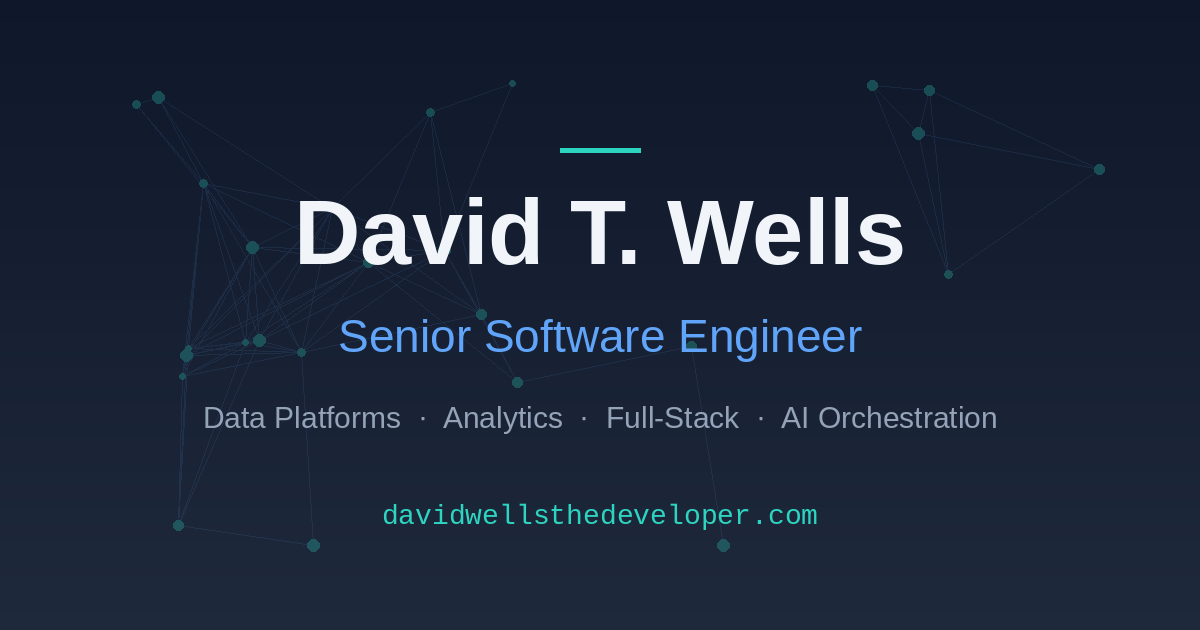
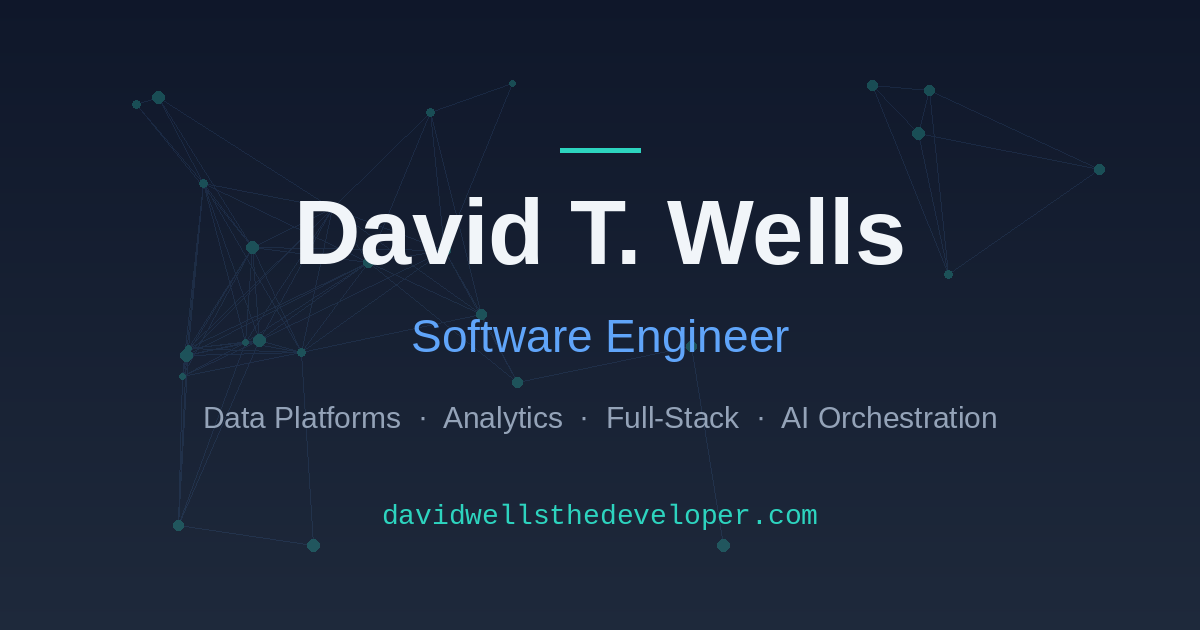
feat: align site branding with master resume (Software Engineer)
- Titles, meta descriptions, OG tags, and JSON-LD jobTitle now say
  'Software Engineer' (was 'Senior Software Engineer')
- Hero fallback copy and og-image.png regenerated to match

Changed region(s): [[0.2775, 0.5127, 0.74, 0.573]]

diff --git a/david-wells-resume/pages/index.vue b/david-wells-resume/pages/index.vue
@@ -32,16 +32,16 @@ const siteUrl = (
   runtimeConfig.public.appUrl || 'https://davidwellsthedeveloper.com'
 ).replace(/\/$/, '')
 
-const pageTitle = 'David T. Wells — Senior Software Engineer'
+const pageTitle = 'David T. Wells — Software Engineer'
 const pageDescription =
-  'Senior software engineer with 9 years of experience building and scaling data platforms, analytics, and full-stack systems. View the resume, experience, and freelance web development work of David T. Wells.'
+  'Software Engineer with 9 years of experience building and scaling data platforms, analytics, and full-stack systems. View the resume, experience, and freelance web development work of David T. Wells.'
 const shareImage = `${siteUrl}/og-image.png`
 
 // Page configuration
 definePageMeta({
-  title: 'David T. Wells — Senior Software Engineer',
+  title: 'David T. Wells — Software Engineer',
   description:
-    'Senior software engineer with 9 years of experience building and scaling data platforms, analytics, and full-stack systems.',
+    'Software Engineer with 9 years of experience building and scaling data platforms, analytics, and full-stack systems.',
 })
 
 // Constitutional compliance monitoring
@@ -56,7 +56,7 @@ useSeoMeta({
   robots:
     'index, follow, max-image-preview:large, max-snippet:-1, max-video-preview:-1',
   ogType: 'website',
-  ogSiteName: 'David T. Wells — Senior Software Engineer',
+  ogSiteName: 'David T. Wells — Software Engineer',
   ogTitle: pageTitle,
   ogDescription: pageDescription,
   ogUrl: `${siteUrl}/`,
@@ -64,7 +64,7 @@ useSeoMeta({
   ogImage: shareImage,
   ogImageWidth: 1200,
   ogImageHeight: 630,
-  ogImageAlt: 'David T. Wells — Senior Software Engineer',
+  ogImageAlt: 'David T. Wells — Software Engineer',
 })
 
 useHead({
@@ -76,7 +76,7 @@ useHead({
         '@context': 'https://schema.org',
         '@type': 'Person',
         name: 'David T. Wells',
-        jobTitle: 'Senior Software Engineer',
+        jobTitle: 'Software Engineer',
         description: pageDescription,
         url: `${siteUrl}/`,
         image: shareImage,

diff --git a/david-wells-resume/nuxt.config.ts b/david-wells-resume/nuxt.config.ts
@@ -2,9 +2,9 @@
 const siteUrl = (
   process.env.NUXT_PUBLIC_APP_URL || 'https://davidwellsthedeveloper.com'
 ).replace(/\/$/, '')
-const siteName = 'David T. Wells — Senior Software Engineer'
+const siteName = 'David T. Wells — Software Engineer'
 const siteDescription =
-  'Senior software engineer with 9 years of experience building and scaling data platforms, analytics, and full-stack systems.'
+  'Software Engineer with 9 years of experience building and scaling data platforms, analytics, and full-stack systems.'
 
 export default defineNuxtConfig({
   compatibilityDate: '2025-10-05',

diff --git a/david-wells-resume/components/HeroSectionParallax.vue b/david-wells-resume/components/HeroSectionParallax.vue
@@ -93,7 +93,7 @@
         >
           {{
             profile?.summary ||
-            'Senior Software Engineer focused on data platforms, analytics, and full-stack systems—with experience as a Scrum Master and a track record of performance and clean architecture.'
+            'Software Engineer focused on data platforms, analytics, and full-stack systems—with experience as a Scrum Master and a track record of performance and clean architecture.'
           }}
         </p>
 

diff --git a/david-wells-resume/scripts/generate-og-image.py b/david-wells-resume/scripts/generate-og-image.py
@@ -74,7 +74,7 @@ def main():
     draw.line([(WIDTH / 2 - 40, 150), (WIDTH / 2 + 40, 150)], fill=ACCENT_2, width=5)
 
     centered(draw, "David T. Wells", font(BOLD, 92), 180, INK)
-    centered(draw, "Senior Software Engineer", font(REGULAR, 46), 310, ACCENT)
+    centered(draw, "Software Engineer", font(REGULAR, 46), 310, ACCENT)
     centered(
         draw,
         "Data Platforms  ·  Analytics  ·  Full-Stack  ·  AI Orchestration",
